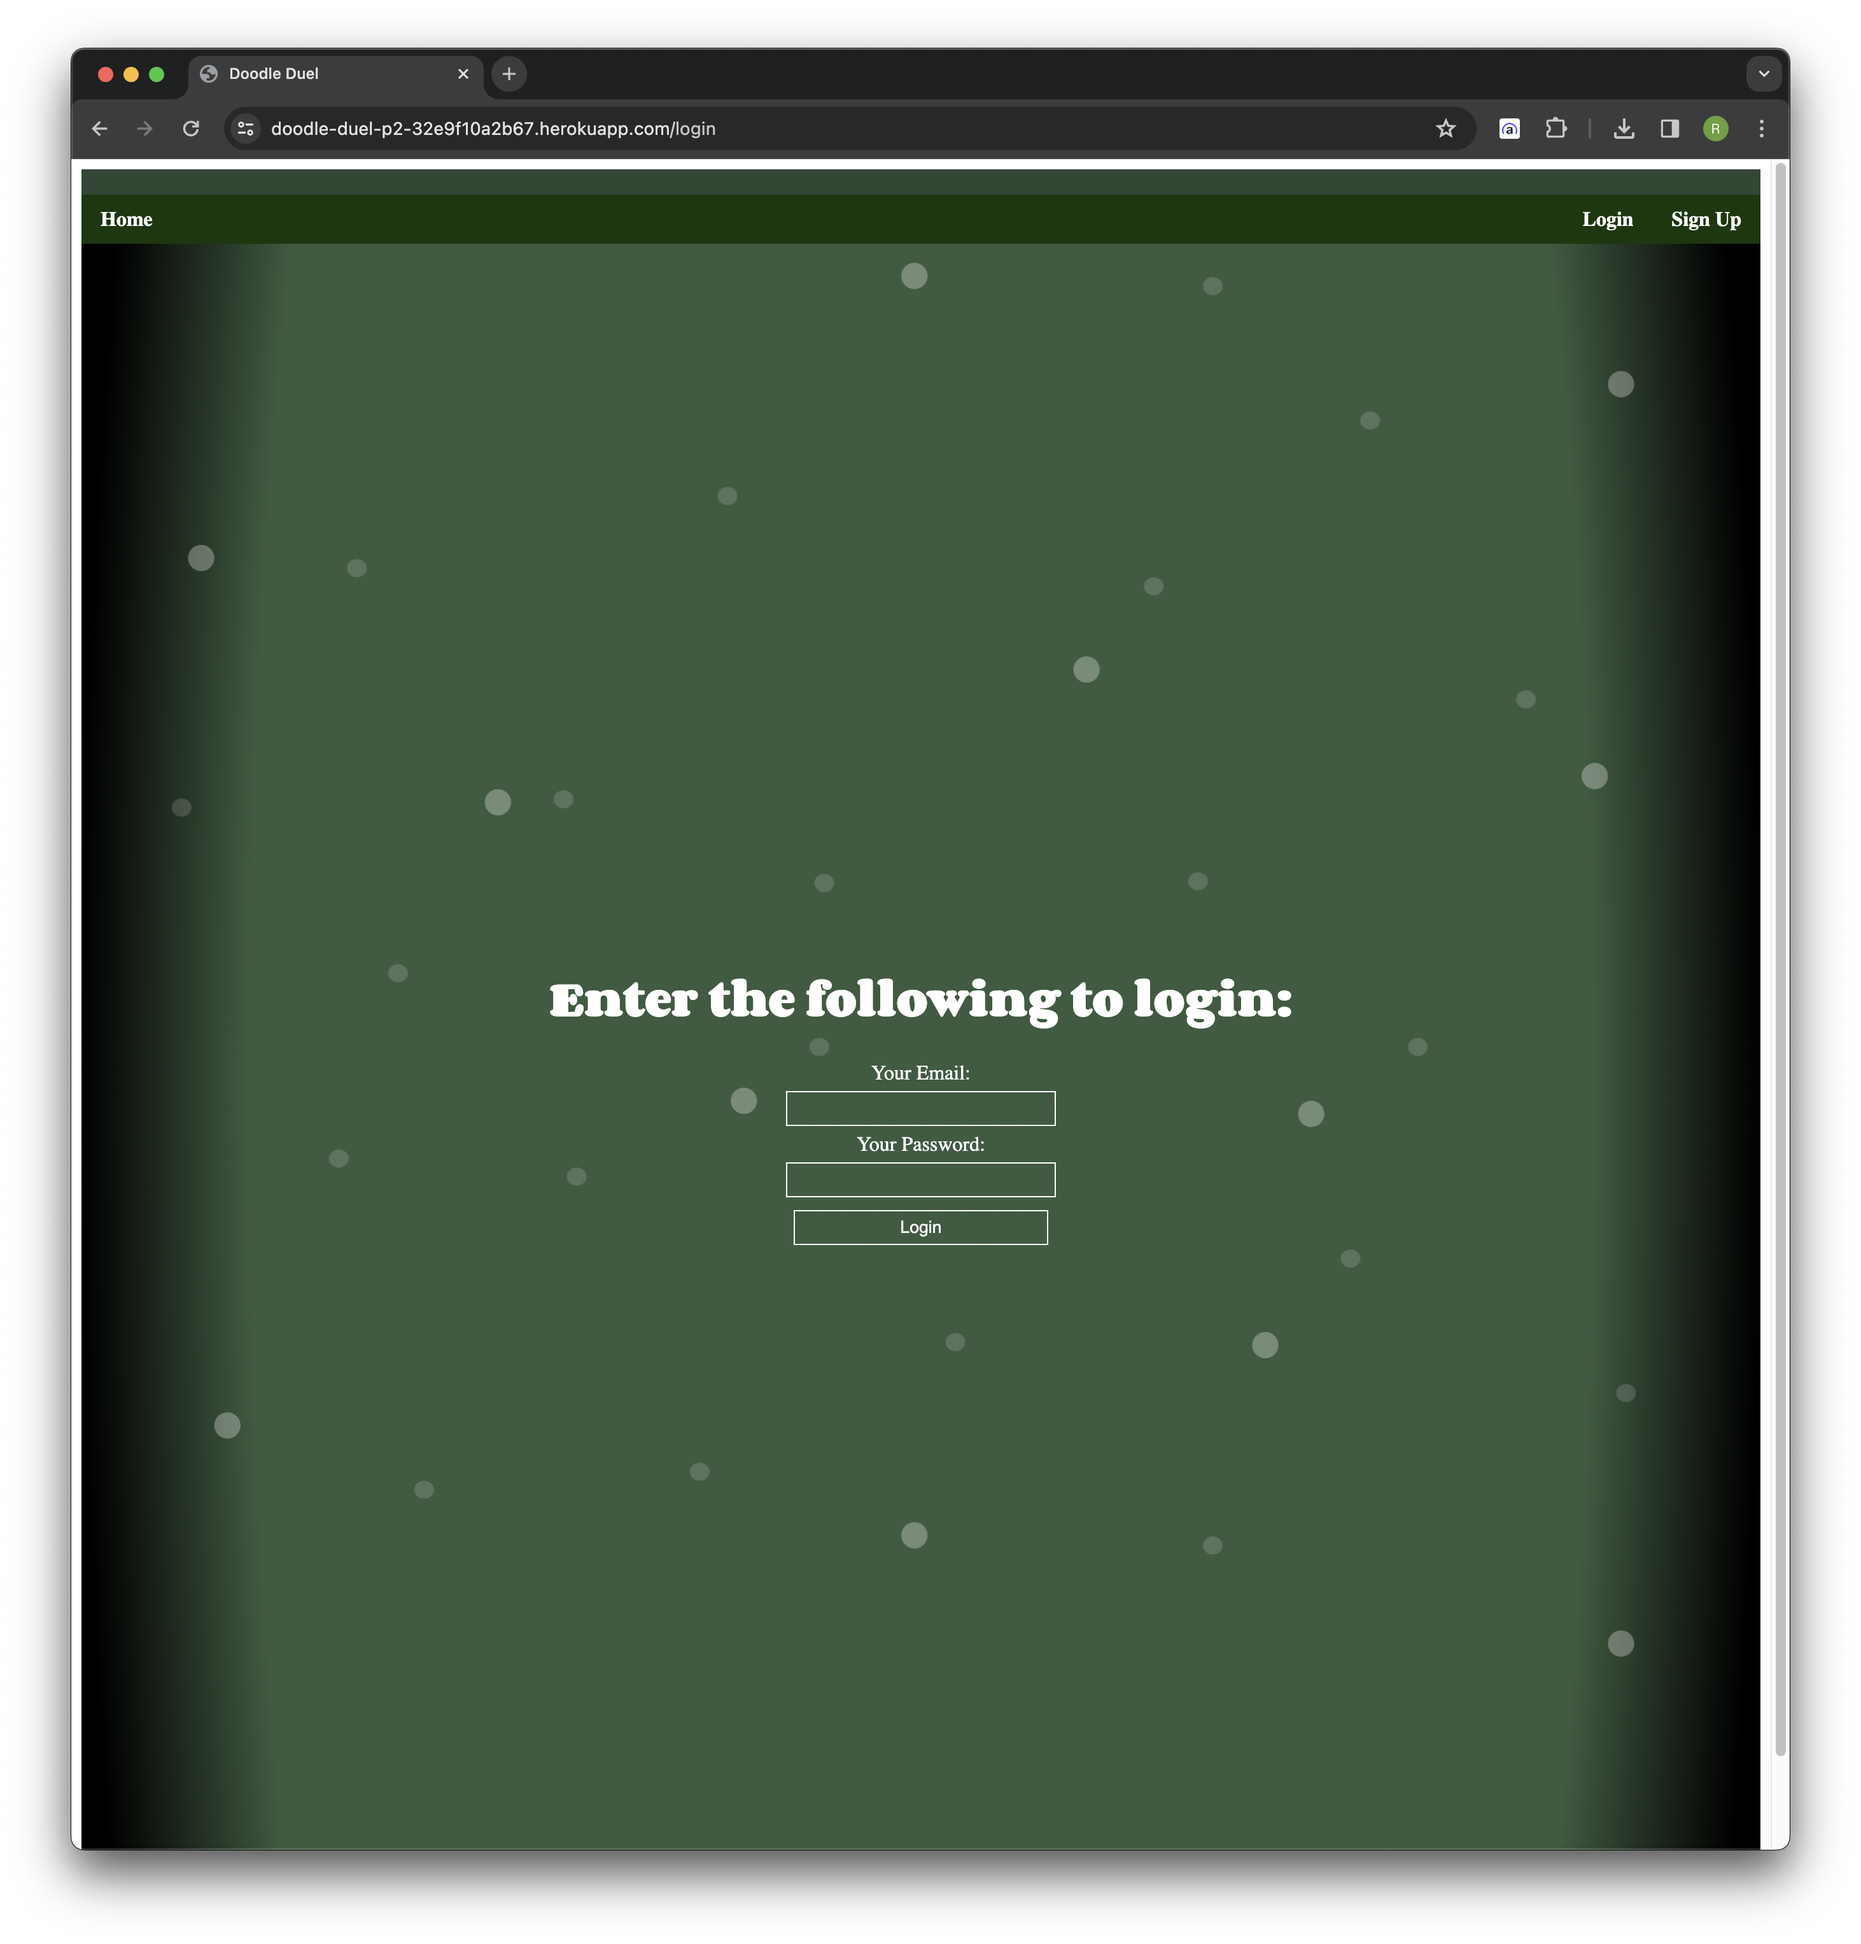
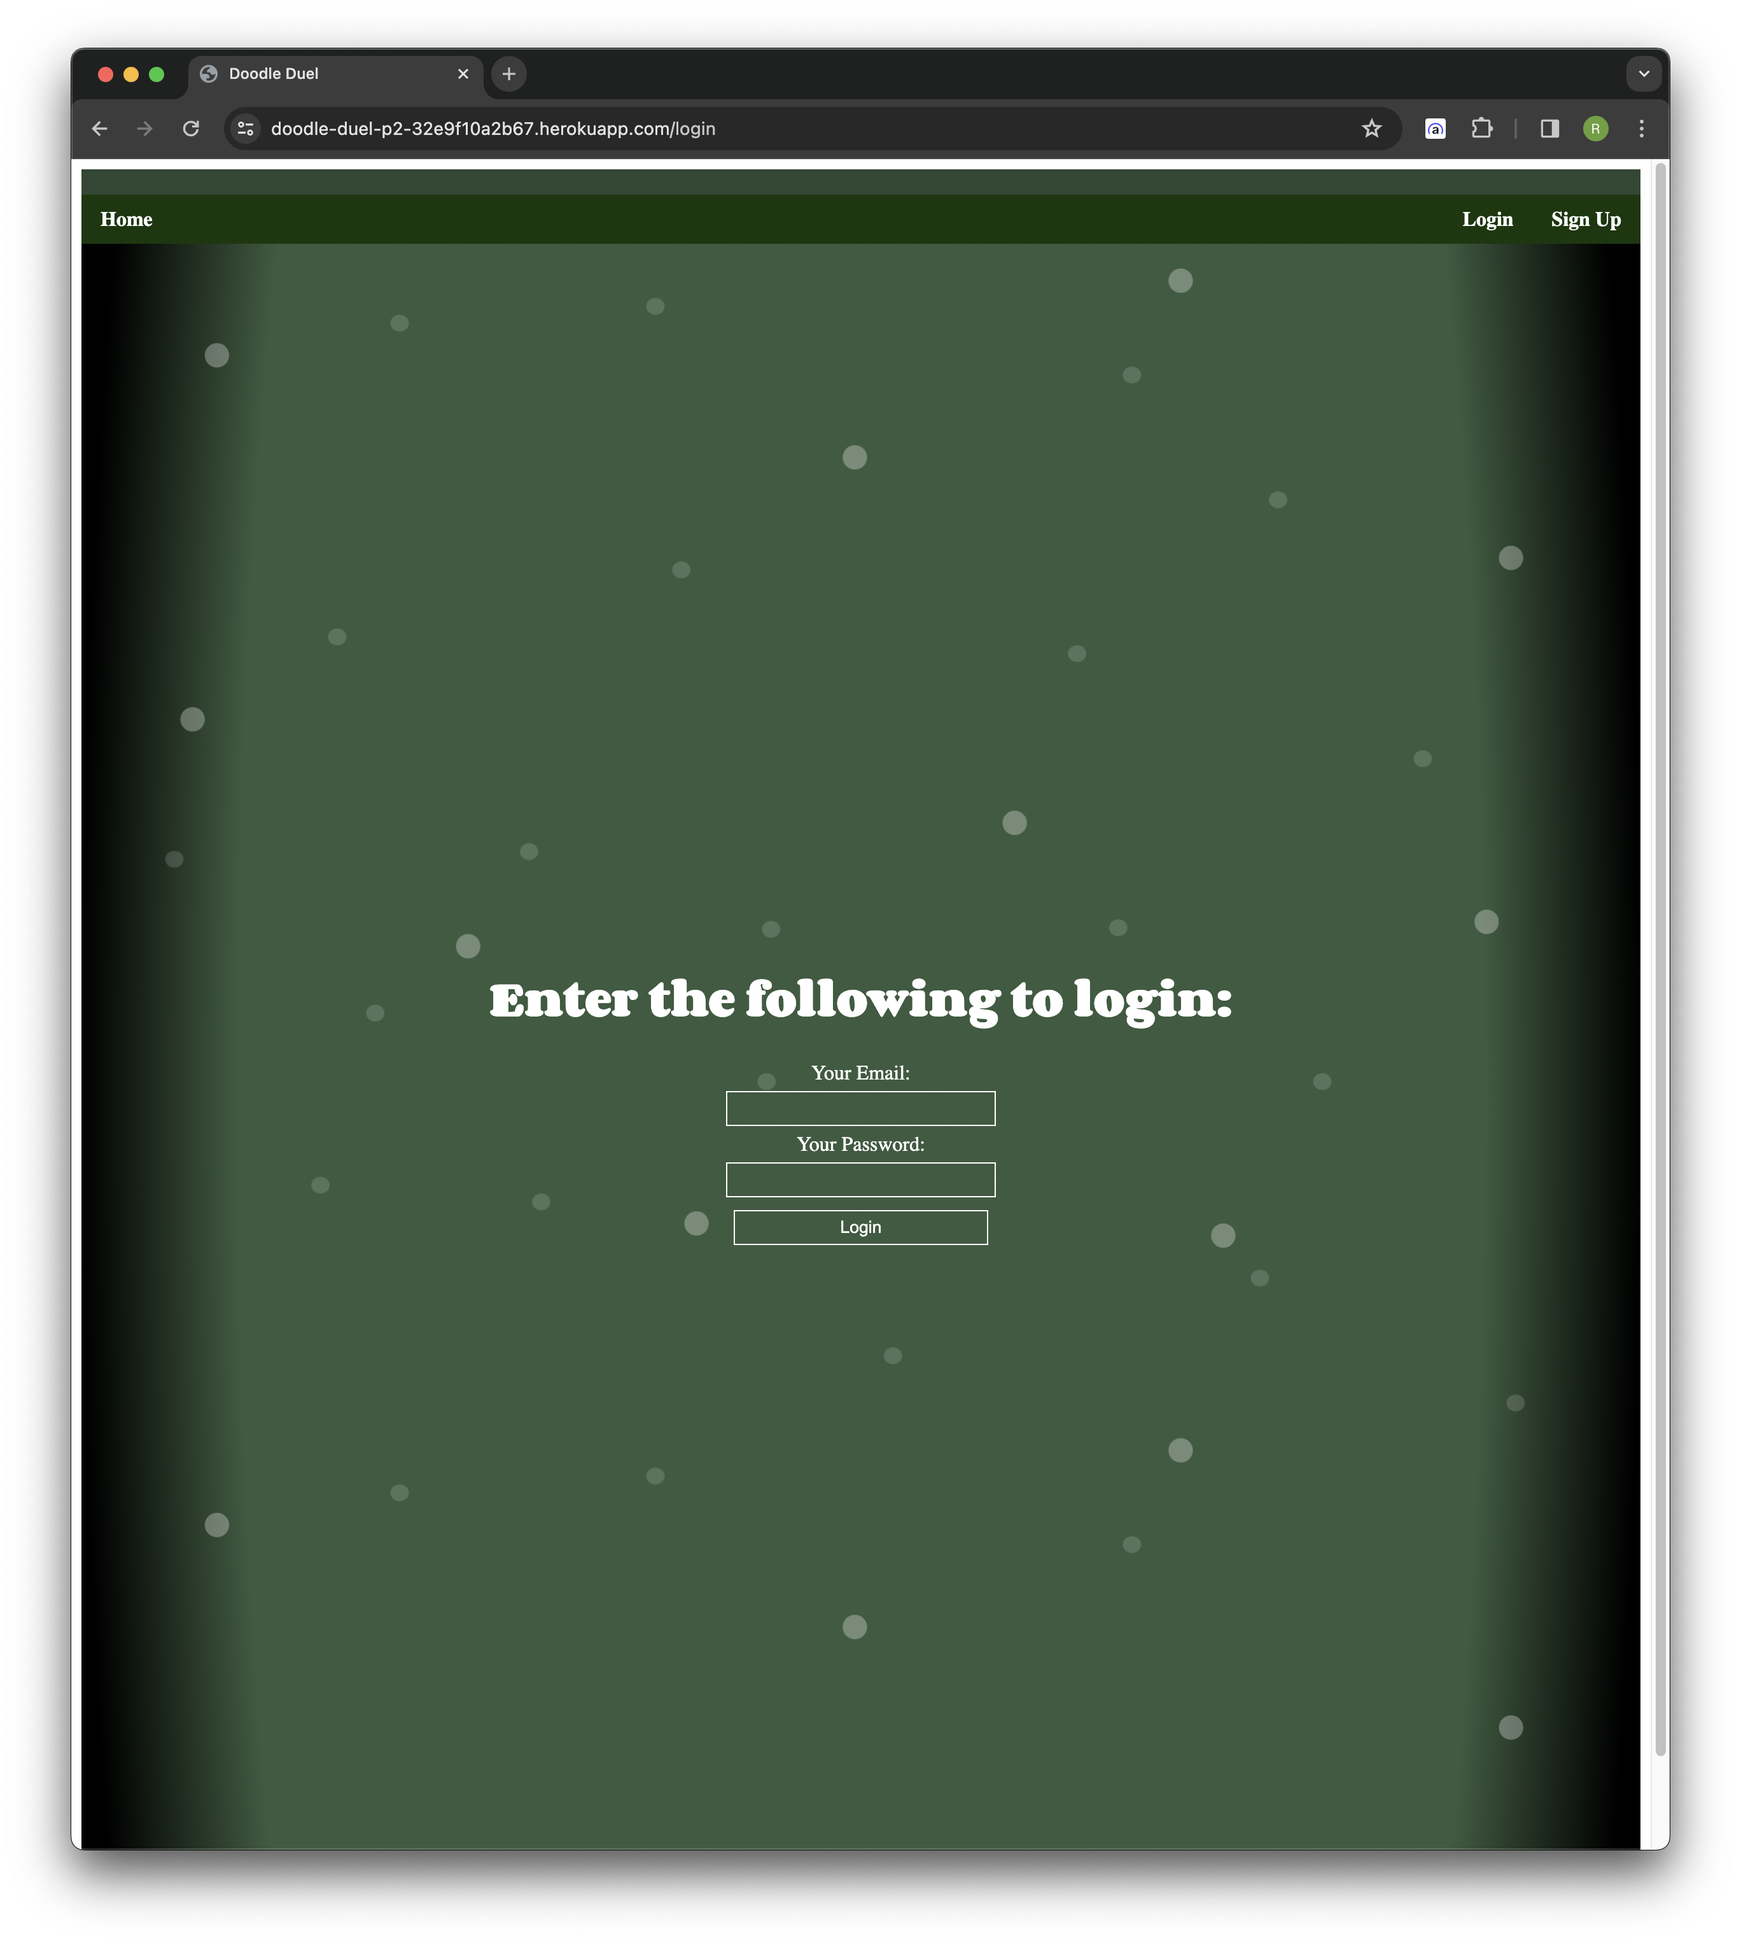
Updated CSS

diff --git a/src/pages/Projects.jsx b/src/pages/Projects.jsx
@@ -4,6 +4,7 @@ import ImageListItem from '@mui/material/ImageListItem';
 import ImageListItemBar from '@mui/material/ImageListItemBar';
 import IconButton from '@mui/material/IconButton';
 import OpenInNewIcon from '@mui/icons-material/OpenInNew';
+import { FaGithub } from "react-icons/fa";
 
 const itemData = [
   {
@@ -11,36 +12,42 @@ const itemData = [
     title: 'Tech Blog',
     skills: 'JavaScript, Handlebars, CSS, MySQL, Sequelize, Express, Node.js',
     link: 'https://milos-tech-blog-8d2ab6a0e819.herokuapp.com/',
+    gitHub: 'https://github.com/Leucisticboi/tech-blog'
   },
   {
     img: '/Note_Taker.png',
     title: 'Note Taker',
     skills: 'JavaScript, Handlebars, CSS, Express, Node.js',
     link: 'https://blooming-fortress-38068-298d76c80f65.herokuapp.com/notes',
+    gitHub: 'https://github.com/Leucisticboi/NoteTaker'
   },
   {
     img: '/Doodle_Duel.png',
     title: 'Doodle Duel',
     skills: 'JavaScript, Handlebars, CSS, SCSS',
     link: 'https://doodle-duel-p2-32e9f10a2b67.herokuapp.com/login',
+    gitHub: 'https://github.com/Leucisticboi/DoodleDuel'
   },
   {
     img: '/Social_API.png',
     title: 'Social Media API',
     skills: 'JavaScript, Node.js, Express, MongoDB, Mongoose, Insomnia',
     link: 'https://github.com/Leucisticboi/Social-Media-API',
+    gitHub: 'https://github.com/Leucisticboi/Social-Media-API'
   },
   {
     img: '/E_Commerce.png',
     title: 'E-Commerce Backend',
     skills: 'JavaScript, Node.js, Dotenv, Express, MySQL, Sequelize, Insomnia',
-    link: 'https://github.com/Leucisticboi/E-Commerce-Back-End'
+    link: 'https://github.com/Leucisticboi/E-Commerce-Back-End',
+    gitHub: 'https://github.com/Leucisticboi/E-Commerce-Back-End'
   },
   {
     img: 'Work_Scheduler.png',
     title: 'Work Day Scheduler',
     skills: 'JavaScript, Bootstrap, CSS',
-    link: 'https://leucisticboi.github.io/WorkScheduler/'
+    link: 'https://leucisticboi.github.io/WorkScheduler/',
+    gitHub: 'https://github.com/Leucisticboi/WorkScheduler'
   }
 ];
 
@@ -50,6 +57,8 @@ export default function Projects() {
       {itemData.map((item) => (
         <ImageListItem
           key={item.img}
+          sx={{ margin: '10px', borderRadius: '15px' }}
+          elevation={0}
         >
           <img
             srcSet={`${item.img}?w=248&fit=crop&auto=format&dpr=2 2x`}
@@ -63,20 +72,35 @@ export default function Projects() {
             title={item.title}
             subtitle={item.skills}
             actionIcon={
-              <IconButton
-                component="a"
-                href={item.link}
-                sx={{ 
-                  color: 'rgba(255, 255, 255, 0.54)',
-                  background: 'transparent',
-                  '&:hover': {
-                    color: '#fefae0',
-                  },
-                }}
-                aria-label={`info about ${item.title}`}
-              >
-                <OpenInNewIcon />
-              </IconButton>
+              <>
+                <IconButton
+                  component="a"
+                  href={item.link}
+                  sx={{ 
+                    color: 'rgba(255, 255, 255, 0.54)',
+                    background: 'transparent',
+                    '&:hover': {
+                      color: '#fefae0',
+                    },
+                  }}
+                  aria-label={`info about ${item.title}`}
+                >
+                  <OpenInNewIcon />
+                </IconButton>
+                <IconButton
+                  component="a"
+                  href={item.gitHub}
+                  sx={{
+                    color: 'rgba(255, 255, 255, 0.54)',
+                    background: 'transparent',
+                    '&:hover': {
+                      color: '#fefae0',
+                    },
+                  }}
+                >
+                  <FaGithub />
+                </IconButton>
+              </>
             }
           />
         </ImageListItem>

diff --git a/src/components/NavBar.jsx b/src/components/NavBar.jsx
@@ -29,10 +29,14 @@ function NavBar() {
 
   return (
     <AppBar position="fixed" sx={{
-      maxHeight: '80px'
+      maxHeight: '80px',
+      alignSelf: 'center',
+      borderRadius: '15px',
+      width: { xs: '98%', sm:'98%', md: '98%' },
+      top: '10px'
     }}>
       <Container maxWidth="xl">
-        <Toolbar disableGutters>
+        <Toolbar disableGutters sx={{ justifyContent: 'space-evenly' }}>
           <Typography
             variant="h6"
             noWrap
@@ -40,7 +44,7 @@ function NavBar() {
             to="/"
             sx={{
               mr: 2,
-              display: { xs: 'none', md: 'flex', flexDirection: 'row', alignItems: 'center' },
+              display: { xs: 'none', sm: 'none', md: 'flex', flexDirection: 'row', alignItems: 'center' },
               fontFamily: 'monospace',
               fontWeight: 700,
               letterSpacing: '.3rem',
@@ -101,10 +105,10 @@ function NavBar() {
               {pages.map((page) => (
                 <MenuItem key={page}
                 sx={{
-                  color: currentPage === `/${page.toLowerCase().split(' ')[0]}` ? '#fefae0' : 'inherit',
+                  color: currentPage === `/${page.toLowerCase().split(' ')[0]}` ? '#bc6c25' : 'inherit',
                   display: 'block',
                   textDecoration: 'none',
-                  background: currentPage === `/${page.toLowerCase().split(' ')[0]}` ? '#283618' : 'transparent',
+                  background: currentPage === `/${page.toLowerCase().split(' ')[0]}` ? '#dda15e' : 'transparent',
                 }}
                 >
                   <Typography
@@ -115,7 +119,7 @@ function NavBar() {
                       color: currentPage === `/${page.toLowerCase().split(' ')[0]}` ? '#fefae0' : 'inherit',
                       display: 'block',
                       textDecoration: 'none',
-                      background: currentPage === `/${page.toLowerCase().split(' ')[0]}` ? '#283618' : 'transparent',
+                      background: currentPage === `/${page.toLowerCase().split(' ')[0]}` ? '#dda15e' : 'transparent',
                     }}
                     onClick={handleCloseNavMenu}
                   >
@@ -133,7 +137,7 @@ function NavBar() {
                 component={Link}
                 to={`/${page.toLowerCase().split(' ')[0]}`}
                 sx={{
-                  color: currentPage === `/${page.toLowerCase().split(' ')[0]}` ? '283618' : '#fefae0',
+                  color: currentPage === `/${page.toLowerCase().split(' ')[0]}` ? '#bc6c25' : '#fefae0',
                   display: 'block',
                   textDecoration: 'none',
                   background: currentPage === `/${page.toLowerCase().split(' ')[0]}` ? '#fefae0' : 'transparent',

diff --git a/src/theme.js b/src/theme.js
@@ -14,7 +14,8 @@ let theme = createTheme({
       default: '#fefae0'
     },
     secondary: {
-      main: '#dda15e'
+      main: '#dda15e',
+      darker: '#bc6c25'
     },
     error: {
       main: '#bc6c25'
@@ -51,6 +52,25 @@ theme = createTheme(theme, {
         body: {
           backgroundColor: theme.palette.background.default,
           color: theme.palette.text.main,
+          margin: 0,
+          padding: 0
+        }
+      }
+    },
+    MuiAppBar: {
+      styleOverrides: {
+        root: {
+          left: 'auto',
+          right: 'auto',
+          backgroundColor: theme.palette.secondary.darker
+        }
+      }
+    },
+    MuiImageListItemBar: {
+      styleOverrides: {
+        root: {
+          backgroundColor: theme.palette.text.main,
+          borderRadius: '15px'
         }
       }
     },
@@ -61,14 +81,14 @@ theme = createTheme(theme, {
           backgroundColor: theme.palette.primary.main,
           '&:hover': {
             color: theme.palette.text.third,
-            backgroundColor: theme.palette.text.main
+            backgroundColor: theme.palette.secondary.main
           }
         },
         contained: {
           color: theme.palette.text.third,
           backgroundColor: theme.palette.primary.main,
           '&:hover': {
-            backgroundColor: theme.palette.text.main
+            backgroundColor: theme.palette.secondary.main
           }
         },
       }
@@ -106,11 +126,11 @@ theme = createTheme(theme, {
     MuiIconButton: {
       styleOverrides: {
         root: {
-          color: theme.palette.text.third,
-          backgroundColor: theme.palette.primary.main,
+          color: theme.palette.secondary.darker,
+          backgroundColor: theme.palette.secondary.main,
           '&:hover': {
             color: theme.palette.text.third,
-            backgroundColor: theme.palette.text.main
+            backgroundColor: theme.palette.text.secondary
           }
         },
       }

diff --git a/src/components/Footer.jsx b/src/components/Footer.jsx
@@ -2,7 +2,7 @@ import {
   AppBar,
   Toolbar,
   IconButton,
-  Container,
+  Container
 } from '@mui/material';
 import ToolTip from '@mui/material/Tooltip';
 import {
@@ -67,18 +67,20 @@ const settings = [
 
 export default function Footer() {
   return (
-    <AppBar position="fixed" sx={{ 
-      maxHeight: '80px',
-      top: "auto",
-      bottom: 0,
-      marginTop: "2rem" 
-      }}
+    <AppBar position="fixed" sx={{
+      maxHeight: 'auto',
+      alignSelf: 'center',
+      top: 'auto',
+      bottom: 10,
+      borderRadius: '15px',
+      width: { xs: '98%', sm: '90%', md: '90%', lg: '60%', xl: '40%' },
+    }}
     >
-      <Container maxWidth="xl">
-        <Toolbar disableGutters sx={{ width: '100%', display: 'flex', justifyContent: 'center' }}>
+      <Container maxWidth="xl" sx={{ margin: 'auto' }}>
+        <Toolbar disableGutters sx={{ display: 'flex', justifyContent: 'space-evenly' }}>
 
-            {settings.map((setting) => (
-              <ToolTip key={setting.title} title={setting.title} arrow>
+          {settings.map((setting) => (
+            <ToolTip key={setting.title} title={setting.title} arrow>
               <IconButton
                 component="a"
                 href={setting.url}
@@ -86,8 +88,8 @@ export default function Footer() {
                 {setting.icon}
               </IconButton>
             </ToolTip>
-            ))}
-              
+          ))}
+
         </Toolbar>
       </Container>
     </AppBar>

diff --git a/src/App.jsx b/src/App.jsx
@@ -4,18 +4,19 @@ import CssBaseline from '@mui/material/CssBaseline';
 import { NavBar, Footer } from './components';
 import { ThemeProvider } from '@mui/material/styles';
 import theme from './theme.js';
+import Container from '@mui/material/Container';
 
 export default function App() {
   return (
     <React.Fragment>
       <ThemeProvider theme={theme}>
         <CssBaseline enableColorScheme />
-        <NavBar />
-        <main>
+        <Container maxWidth="xl" sx={{ display: 'flex', justifyContent: 'center' }}>
+          <NavBar />
           <Outlet />
-        </main>
-        <Footer />
+          <Footer />
+        </Container>
       </ThemeProvider>
     </React.Fragment>
   )
-};
+}

diff --git a/src/index.css b/src/index.css
@@ -1,6 +1,4 @@
 * {
-  margin: 0;
-  padding: 0;
   box-sizing: border-box;
   font-family: "Roboto", sans-serif;
 }
